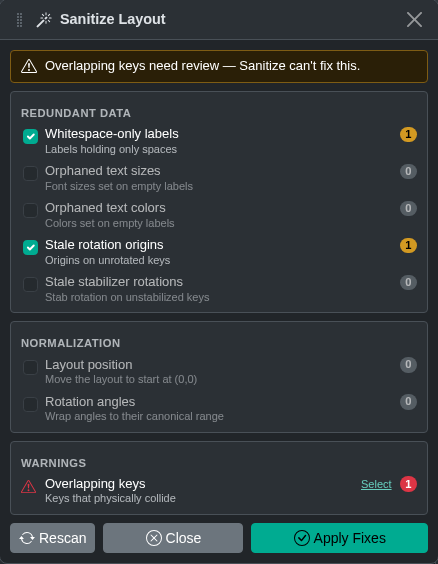
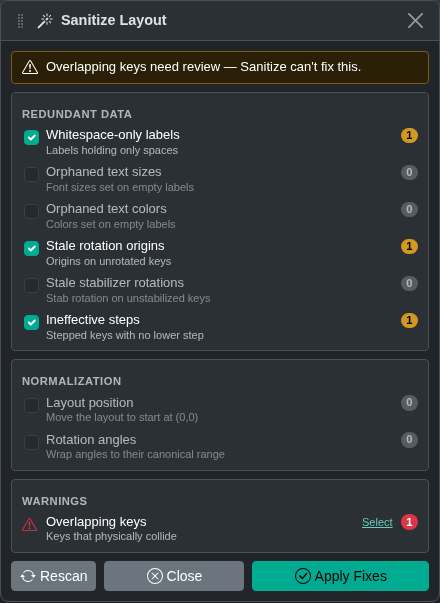
Refresh the Sanitize Layout panel screenshot
Show the new Ineffective steps rule with one finding, and list the
rule's id in the e2e helper's SanitizeRuleId type.

Changed region(s): [[0.0, 0.0, 1.0, 1.0]]

diff --git a/e2e/helpers/sanitize-tool-helpers.ts b/e2e/helpers/sanitize-tool-helpers.ts
@@ -9,6 +9,7 @@ export type SanitizeRuleId =
   | 'blank-label-text-color'
   | 'stale-rotation-origin'
   | 'stale-stabilizer-rotation'
+  | 'ineffective-step'
   | 'key-collisions'
 
 /**

diff --git a/docs/layout-editor.md b/docs/layout-editor.md
@@ -223,8 +223,8 @@ See [Color Themes](./color-themes) for the full theme format, matcher syntax ref
 
 The **Sanitize Layout** tool scans the layout for redundant data and non-normalized values, and lets you clean them up in bulk. Open it from **Extra Tools → Sanitize Layout**.
 
-<img src="/sanitize-layout-panel-light.png" class="docs-screenshot light-only" alt="Sanitize Layout panel reporting one whitespace-only label, one stale rotation origin and one overlapping key pair, with Rescan, Close and Apply Fixes buttons" style="max-width:440px" />
-<img src="/sanitize-layout-panel-dark.png" class="docs-screenshot dark-only" alt="Sanitize Layout panel reporting one whitespace-only label, one stale rotation origin and one overlapping key pair, with Rescan, Close and Apply Fixes buttons" style="max-width:440px" />
+<img src="/sanitize-layout-panel-light.png" class="docs-screenshot light-only" alt="Sanitize Layout panel reporting one whitespace-only label, one stale rotation origin, one ineffective step and one overlapping key pair, with Rescan, Close and Apply Fixes buttons" style="max-width:440px" />
+<img src="/sanitize-layout-panel-dark.png" class="docs-screenshot dark-only" alt="Sanitize Layout panel reporting one whitespace-only label, one stale rotation origin, one ineffective step and one overlapping key pair, with Rescan, Close and Apply Fixes buttons" style="max-width:440px" />
 
 Scanning happens automatically when the panel opens, and issues are grouped into three categories:
 
